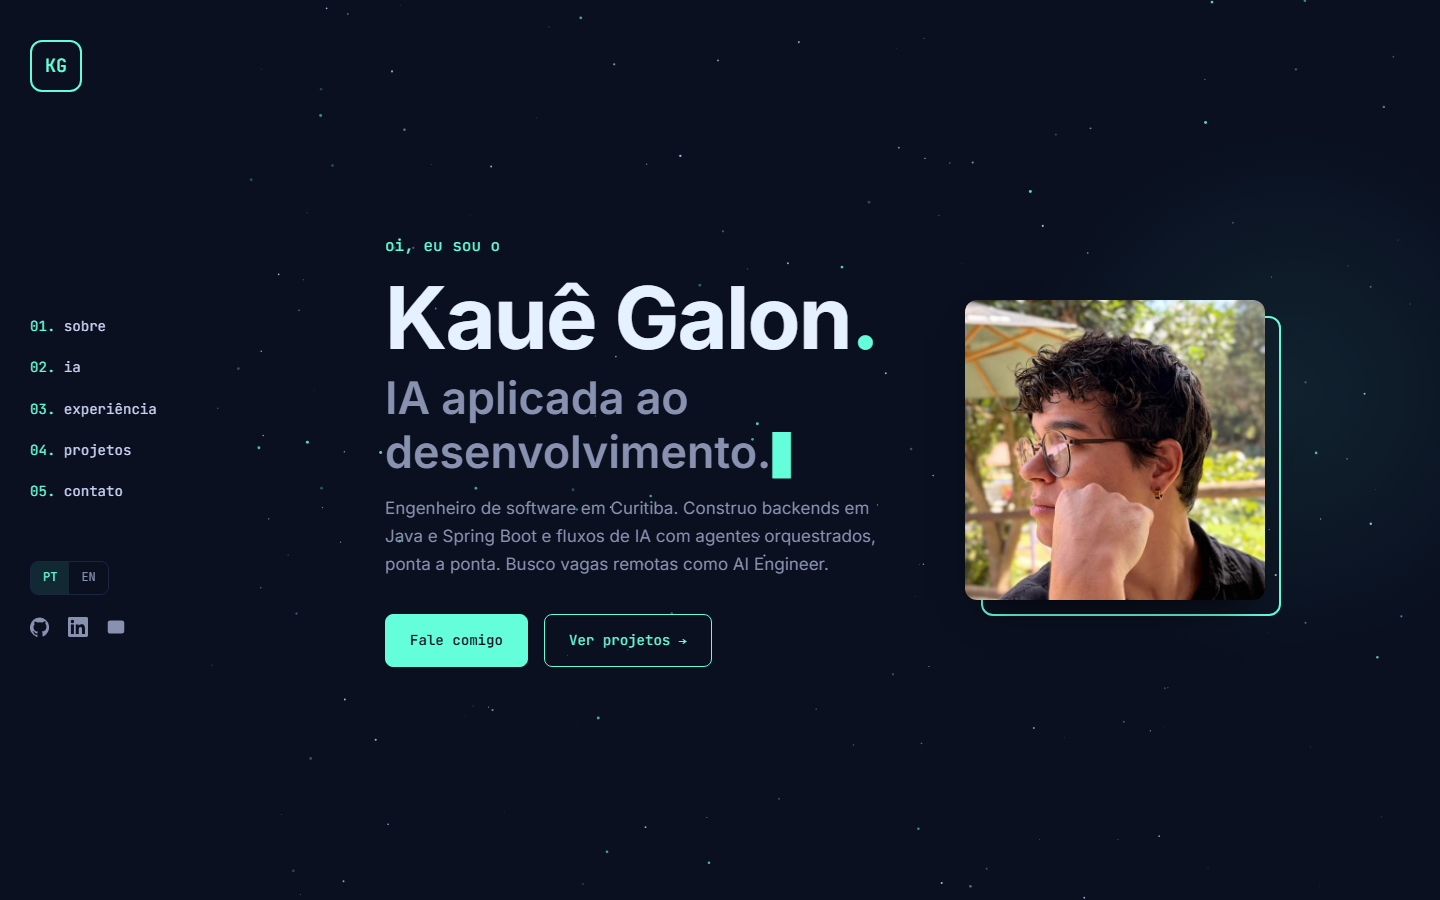
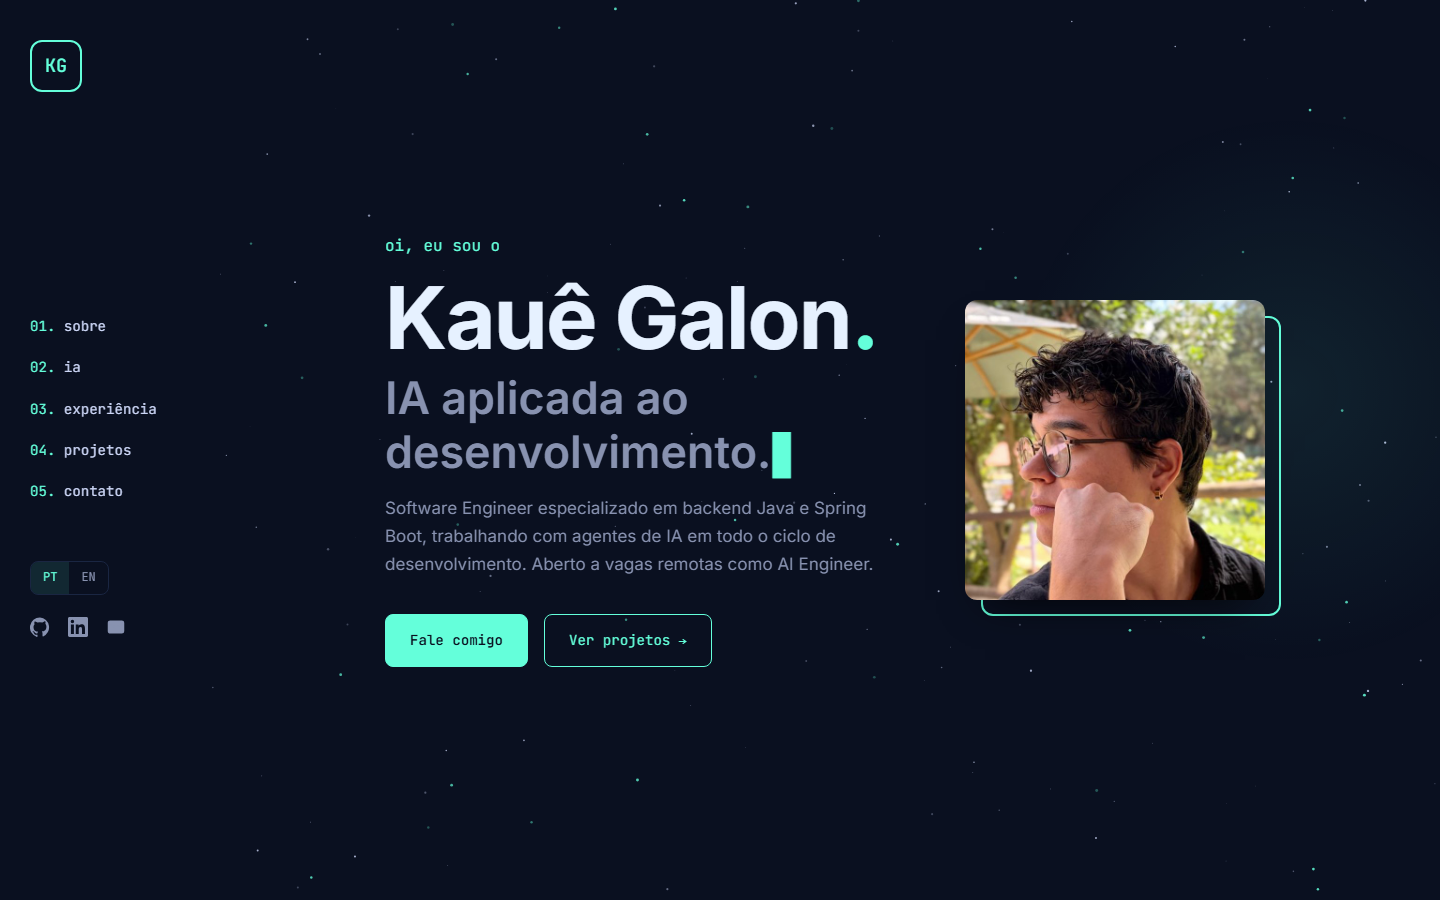
feat: drop AI concepts block, tighten copy for international roles

Changed region(s): [[0.25, 0.56, 0.625, 0.6533]]

diff --git a/src/content.js b/src/content.js
@@ -144,26 +144,6 @@ const aiFlow = {
   ],
 };
 
-// Conceitos de engenharia de IA aplicados no dia a dia
-const aiPrinciples = {
-  pt: [
-    { title: "Orquestração", text: "A sessão principal delega cada etapa a um subagente especializado e recebe o relatório de volta." },
-    { title: "Engenharia de contexto", text: "Constitution, arquivo de regras (CLAUDE.md), skills carregadas sob demanda e memória persistente entre sessões." },
-    { title: "Custo", text: "Compressão de saída (caveman) e contexto enxuto para gastar menos tokens." },
-    { title: "Guardrails e humano no loop", text: "Confirmação passo a passo, revisão só de leitura e nada publicado sem OK. Nota de risco de alucinação, credenciais só por variável de ambiente (nunca em resposta, arquivo ou log) e sistemas antigos só com leitura." },
-    { title: "Quality gates", text: "Analyze, checklist, TDD e Sonar antes de qualquer código seguir adiante." },
-    { title: "Portabilidade", text: "O time trocou de ferramenta (Kiro → Claude Code) e os agentes continuaram os mesmos. O valor está no processo e no contexto, não na ferramenta." },
-  ],
-  en: [
-    { title: "Orchestration", text: "The main session delegates each step to a specialized subagent and gets a report back." },
-    { title: "Context engineering", text: "Constitution, a rules file (CLAUDE.md), on-demand skills and persistent memory across sessions." },
-    { title: "Cost", text: "Output compression (caveman) and lean context to spend fewer tokens." },
-    { title: "Guardrails & human in the loop", text: "Step-by-step confirmation, read-only review and nothing published without approval. Hallucination-risk notes, credentials only via environment variables (never in a response, file or log) and legacy systems read-only." },
-    { title: "Quality gates", text: "Analyze, checklist, TDD and Sonar before any code moves forward." },
-    { title: "Portability", text: "The team switched tools (Kiro → Claude Code) and the agents stayed the same. The value lives in the process and the context, not the tool." },
-  ],
-};
-
 const tech = ["Java 11 · 17 · 21", "Spring Boot", "AWS", "Claude Code", "Python", "PostgreSQL", "Microservices", "Docker / Kubernetes", "JUnit", "TDD"];
 
 export const content = {
@@ -177,24 +157,23 @@ export const content = {
         "IA aplicada ao desenvolvimento.",
         "software ponta a ponta, com IA.",
       ],
-      bio: "Engenheiro de software em Curitiba. Construo backends em Java e Spring Boot e fluxos de IA com agentes orquestrados, ponta a ponta. Busco vagas remotas como AI Engineer.",
+      bio: "Software Engineer especializado em backend Java e Spring Boot, trabalhando com agentes de IA em todo o ciclo de desenvolvimento. Aberto a vagas remotas como AI Engineer.",
       cta: "Fale comigo",
       cta2: "Ver projetos",
     },
     about: {
       title: "sobre mim",
       paragraphs: [
-        "Sou engenheiro de software com 5 anos de experiência em backend Java e Spring Boot, construindo microsserviços para plataformas grandes e críticas para o negócio. Sou formado em Ciência da Computação pela Universidade Positivo e falo inglês avançado (C1).",
+        "Sou Software Engineer com 5 anos de experiência em backend Java e Spring Boot, construindo microsserviços para plataformas grandes e críticas para o negócio. Sou formado em Ciência da Computação pela Universidade Positivo e trabalho em inglês fluente (C1), com experiência diária em times internacionais.",
         "Na Wipro, migrei sistemas bancários legados de COBOL para Java em ambiente mainframe e fui promovido de Trainee a Desenvolvedor Java. Depois, num time internacional em inglês, desenvolvi microsserviços em Java e Spring Boot para a plataforma de onboarding de dispositivos de uma fabricante global de tecnologia. Na Senior Sistemas, numa plataforma de HCM com 40+ microsserviços, liderei a migração do Java 11 para o 17, construí o subsistema de notificações de ponta a ponta e atuo como revisor de código em 30+ serviços.",
-        "Hoje construo fluxos de desenvolvimento com IA: orquestro agentes e subagentes especializados, com engenharia de contexto, guardrails e quality gates em cada etapa. Busco vagas remotas como AI Engineer, construindo sistemas com LLMs integrados ao produto, RAG e evals.",
+        "No dia a dia, uso agentes e subagentes de IA especializados em cada etapa do desenvolvimento, com engenharia de contexto, guardrails e quality gates. Busco vagas remotas como AI Engineer, construindo produtos com LLMs, RAG e evals.",
       ],
       techIntro: "Tecnologias com que tenho trabalhado:",
       tech,
     },
     ai: {
       title: "IA no dia a dia",
-      lead: "Desenvolvo com agentes de IA orquestrados no Claude Code, com os agentes especializados do time. Cada etapa roda com contexto definido, guardrails e quality gates, e nada vai adiante sem a minha revisão.",
-      principlesTitle: "Conceitos que aplico no dia a dia",
+      lead: "Trabalho com os agentes especializados do time no Claude Code, num fluxo guiado por especificação: cada etapa tem um agente dedicado, contexto definido e um quality gate, e nada avança sem a minha revisão.",
       nextTitle: "Próximo passo",
       next: "Migrar para AI Engineer / Forward Deployed Engineer: levar LLMs para dentro do produto, com RAG, evals, custo e latência sob controle em produção.",
       tools: ["Claude Code", "GitHub Spec Kit", "MCP", "Skills", "Subagentes"],
@@ -209,7 +188,7 @@ export const content = {
     contact: {
       title: "contato",
       heading: "Bora conversar?",
-      text: "Estou aberto a vagas remotas como AI Engineer e em Java, e também a trocar ideia sobre agentes, LLMs e backend. Minha caixa de entrada está sempre aberta!",
+      text: "Estou aberto a vagas remotas como AI Engineer ou backend Java, e sempre disposto a conversar sobre agentes, LLMs e sistemas distribuídos. Minha caixa de entrada está sempre aberta.",
       button: "Dizer oi 👋",
     },
     footer: "Feito com ☕ e React por Kauê Galon",
@@ -224,24 +203,23 @@ export const content = {
         "AI applied to software development.",
         "end-to-end software, with AI.",
       ],
-      bio: "Software engineer based in Curitiba, Brazil. I build Java / Spring Boot backends and AI workflows with orchestrated agents, end to end. Looking for remote AI Engineer roles.",
+      bio: "Software Engineer specializing in Java and Spring Boot backends, working with AI agents across the entire development lifecycle. Open to remote AI Engineer roles.",
       cta: "Get in touch",
       cta2: "See projects",
     },
     about: {
       title: "about me",
       paragraphs: [
-        "I'm a software engineer with 5 years of experience in Java and Spring Boot backends, building microservices for large-scale, business-critical platforms. I hold a Computer Science degree from Universidade Positivo and speak advanced English (C1).",
+        "I'm a Software Engineer with 5 years of experience in Java and Spring Boot, building microservices for large-scale, business-critical platforms. I hold a B.Sc. in Computer Science from Universidade Positivo and work fluently in English (C1), with daily experience on international teams. Based in Brazil (UTC−3).",
         "At Wipro, I migrated legacy banking systems from COBOL to Java in a mainframe environment and was promoted from Trainee to Java Developer. Then, in an international English-speaking team, I built Java and Spring Boot microservices for the device onboarding platform of a global technology manufacturer. At Senior Sistemas, on an HCM platform with 40+ microservices, I led the Java 11 → 17 migration, built the notification subsystem end to end and act as a code reviewer across 30+ services.",
-        "Today I build AI-driven development workflows: I orchestrate specialized agents and subagents, with context engineering, guardrails and quality gates at every step. I'm looking for remote AI Engineer roles, building systems with LLMs integrated into the product, RAG and evals.",
+        "Day to day, I run specialized AI agents and subagents at every stage of development, backed by context engineering, guardrails and quality gates. I'm looking for remote AI Engineer roles, building LLM-powered products with RAG and evals.",
       ],
       techIntro: "Technologies I've been working with:",
       tech,
     },
     ai: {
       title: "AI in my daily work",
-      lead: "I develop with AI agents orchestrated in Claude Code, using my team's specialized agents. Every step runs with defined context, guardrails and quality gates, and nothing moves forward without my review.",
-      principlesTitle: "Concepts I apply every day",
+      lead: "I work with my team's specialized agents in Claude Code, in a spec-driven workflow: each stage has a dedicated agent, scoped context and a quality gate, and nothing moves forward without my review.",
       nextTitle: "Next step",
       next: "Move into an AI Engineer / Forward Deployed Engineer role: bringing LLMs into the product, with RAG, evals, and cost and latency under control in production.",
       tools: ["Claude Code", "GitHub Spec Kit", "MCP", "Skills", "Subagents"],
@@ -256,7 +234,7 @@ export const content = {
     contact: {
       title: "contact",
       heading: "Let's talk?",
-      text: "I'm open to remote AI Engineer and Java roles, and always happy to chat about agents, LLMs and backend. My inbox is always open!",
+      text: "I'm open to remote AI Engineer and backend Java roles, and always happy to talk about agents, LLMs and distributed systems. My inbox is always open.",
       button: "Say hi 👋",
     },
     footer: "Built with ☕ and React by Kauê Galon",
@@ -264,5 +242,5 @@ export const content = {
 };
 
 export const projects = { featured, others };
-export { aiFlow, aiPrinciples };
+export { aiFlow };
 export { experience } from "./experience.js";

diff --git a/src/styles.css b/src/styles.css
@@ -146,10 +146,6 @@ main { margin-left: var(--side); }
 .flow__agents { font-size: .72rem; margin-bottom: 10px; }
 .flow__step p:last-child { font-size: .92rem; }
 .ai__subtitle { color: var(--text-strong); font-size: 1.25rem; margin: 60px 0 22px; }
-.principles { display: grid; grid-template-columns: repeat(2, 1fr); gap: 14px 40px; }
-.principle { border-left: 2px solid var(--accent); padding: 2px 0 2px 18px; }
-.principle h4 { color: var(--text-strong); font-size: 1rem; margin-bottom: 4px; }
-.principle p { font-size: .94rem; }
 .ai__next { max-width: 720px; }
 .ai__next .ai__subtitle { margin-top: 56px; }
 
@@ -273,7 +269,7 @@ main { margin-left: var(--side); }
   .feat__body, .feat--right .feat__body { padding: 0 8px; }
   .featured { gap: 70px; }
   .tech-grid { grid-template-columns: repeat(2, 1fr); }
-  .flow, .principles { grid-template-columns: 1fr; }
+  .flow { grid-template-columns: 1fr; }
 }
 
 @media (prefers-reduced-motion: reduce) {

diff --git a/src/components/AiSection.jsx b/src/components/AiSection.jsx
@@ -1,4 +1,4 @@
-import { aiFlow, aiPrinciples } from "../content.js";
+import { aiFlow } from "../content.js";
 
 export default function AiSection({ t, lang }) {
   return (
@@ -15,16 +15,6 @@ export default function AiSection({ t, lang }) {
           </li>
         ))}
       </ol>
-
-      <h3 className="ai__subtitle">{t.principlesTitle}</h3>
-      <div className="principles">
-        {aiPrinciples[lang].map((p) => (
-          <div key={p.title} className="principle">
-            <h4>{p.title}</h4>
-            <p>{p.text}</p>
-          </div>
-        ))}
-      </div>
 
       <div className="ai__next">
         <h3 className="ai__subtitle">{t.nextTitle}</h3>
